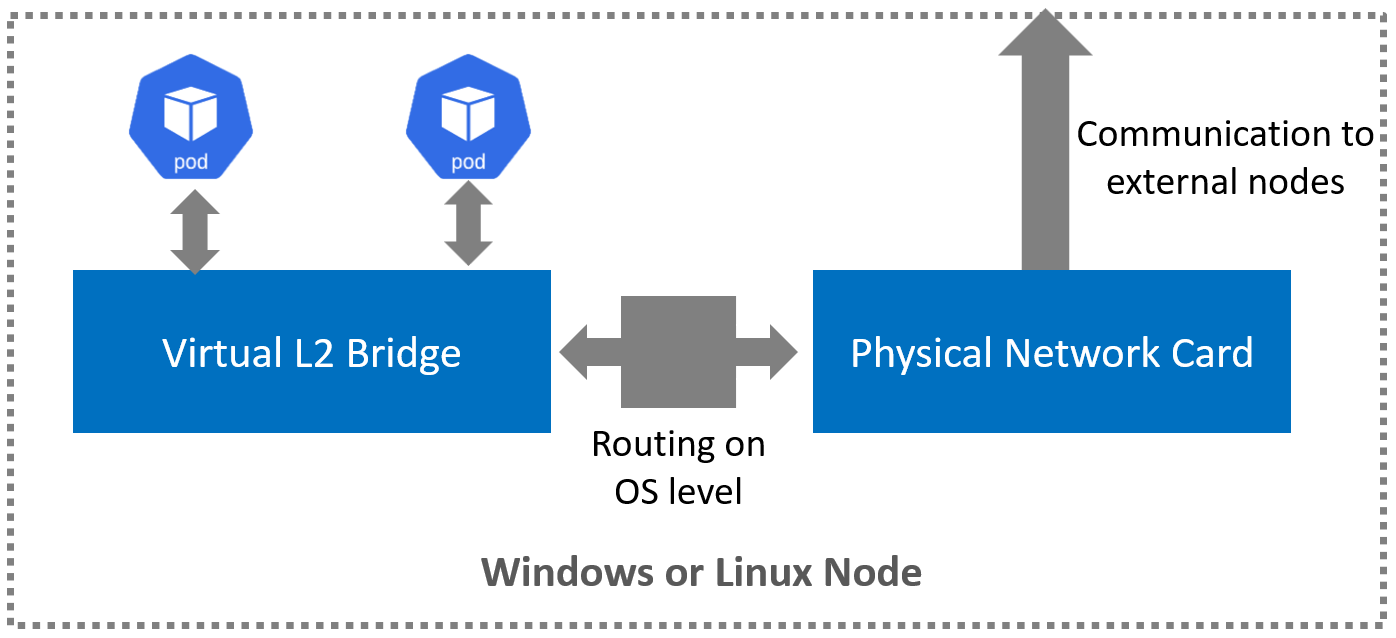
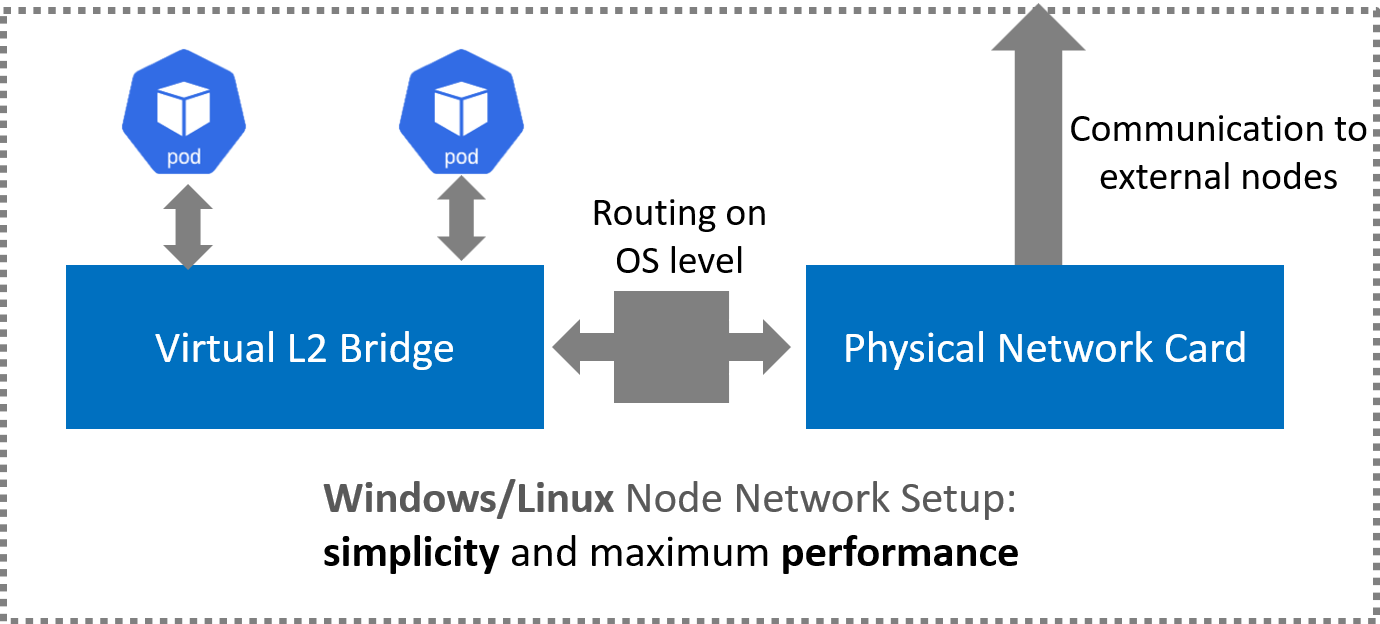
doc: improve documentation

diff --git a/docs/op-manual/networking-architecture.md b/docs/op-manual/networking-architecture.md
@@ -7,11 +7,11 @@ SPDX-License-Identifier: MIT
 
 ## Core Principles and Architecture: simplicity and maximum performance
 
-In alignment with K2s' foundational design principles of operational <b>simplicity</b> and <b>maximum performance</b>, our networking architecture is built upon Flannel CNI configured in host-gateway mode. This provides a transparent, high-throughput, and low-latency data plane that is ideal for demanding workloads and facilitates straightforward network analysis. For production-grade security, K2s integrates the [security addon](https://github.com/Siemens-Healthineers/K2s/blob/main/addons/security/README.md) which uses [Linkerd](https://linkerd.io/) to establish a zero-trust environment for all TCP-based traffic through transparent mTLS and fine-grained policy enforcement.
+In alignment with *K2s*' foundational design principles of operational <b>simplicity</b> and <b>maximum performance</b>, our networking architecture is built upon Flannel CNI configured in host-gateway mode. This provides a transparent, high-throughput, and low-latency data plane that is ideal for demanding workloads and facilitates straightforward network analysis. For production-grade security, K2s integrates the [security addon](https://github.com/Siemens-Healthineers/K2s/blob/main/addons/security/README.md) which uses [Linkerd](https://linkerd.io/) to establish a zero-trust environment for all TCP-based traffic through transparent mTLS and fine-grained policy enforcement.
 
 ## The Broader Strategic Value of Simplicity and Performance
 
-The commitment to a simple and performant networking foundation provides strategic advantages that extend far beyond enabling zero-trust features. This architecture directly translates into tangible value for both operators and developers running workloads on K2s.
+The commitment to a simple and performant networking foundation provides strategic advantages that extend far beyond enabling zero-trust features. This architecture directly translates into tangible value for both operators and developers running workloads on *K2s*.
 
 <b>Accelerated Diagnostics and Troubleshooting</b>: The transparent host-gateway data plane avoids complex encapsulation (like VXLAN or IP-in-IP). Network traffic remains directly observable on the host, allowing operators to use standard, universal tools like tcpdump and Wireshark for rapid, intuitive debugging. This dramatically reduces the mean time to resolution (MTTR) for network-related issues compared to debugging opaque overlay networks.
 
@@ -23,28 +23,29 @@ The commitment to a simple and performant networking foundation provides strateg
 
 <div align="center">
 
-![Overview](docs/op-manual/assets/networksimplicity.png)
+![Overview](assets/networksimplicity.png)
 </div>
 
 ## Alternative Solutions Considered: Network Policy Controllers (same applies for more complex CNIs like Calico)
 
 During our evaluation, we analyzed solutions designed to enable native Kubernetes NetworkPolicy support on platforms where the CNI does not enforce it. A notable example is the windows-network-policy-controller from the Kubernetes SIGs community, which translates NetworkPolicy objects into rules for the Windows Filtering Platform.
 
-Potential Advantage: The primary benefit of such a controller is the ability to use the standard Kubernetes NetworkPolicy API. This provides a familiar, powerful abstraction for defining granular, label-based traffic rules between pods, which is highly desirable from a user-experience perspective.
+<b>Potential Advantage</b>: The primary benefit of such a controller is the ability to use the standard Kubernetes NetworkPolicy API. This provides a familiar, powerful abstraction for defining granular, label-based traffic rules between pods, which is highly desirable from a user-experience perspective.
 
-Reasons for Rejection: Despite this advantage, we concluded that this approach was not aligned with the core K2s tenets for the following reasons:
+<b>Reasons for Rejection</b>: Despite this advantage, we concluded that this approach was not aligned with the core K2s tenets for the following reasons:
 
 <b>Increased Complexity</b>: It introduces another active controller into the cluster's critical path. This component must be installed, managed, and monitored, adding operational overhead. Its logic for translating policies into host rules creates a layer of abstraction that can be difficult to debug when unexpected network behavior occurs.
 
 <b>Performance and Scalability Concerns</b>: A network policy controller must continuously watch the Kubernetes API for changes to pods (e.g., label changes, scaling events) and policies. In dynamic clusters, this can trigger frequent and numerous updates to the host's firewall ruleset, potentially leading to performance degradation, rule conflicts, or transient connectivity issues. This dynamic management layer adds computational overhead compared to the static, highly-performant rules applied by our chosen DaemonSet approach.
 
-<b>Deviation from Simplicity</b>: The goal of K2s is to provide a transparent and easily understandable system. A dynamic controller that generates a complex and ever-changing set of host firewall rules moves away from this principle, making it harder for operators to reason about the state of the network at any given moment.
+<b>Deviation from Simplicity</b>: The goal of K2s is to provide a transparent and easily understandable system. A dynamic controller that generates a complex and ever-changing set of host firewall rules moves away from this principle, making it harder for operators to reason about the state of the network at any given moment. In addition the solutions add an overhead in the package processing plus an additional CPU overhead for kernel/userspace transitions: latency increase of +100μs-2ms per packet, throughput reduction: 20%-80%
+and CPU overhead: +20-200%. Even package drops are possible under high load !
 
-<b>OS support</b> The analyzed solutions where not working under Windows, they provided only for Linux nodes a solution.
+<b>OS support</b> Many of the analyzed solutions where not working under Windows, they provided only for Linux nodes a viable solution.
 
 ## Governing Non-TCP Traffic
 
-A critical consideration in this chosen architecture is the governance of non-TCP protocols, primarily UDP. As Linkerd's service mesh capabilities are focused on L4/L7 TCP traffic, UDP communication operates outside its security perimeter. This necessitates a robust and performant solution to control UDP traffic flows without compromising our core design goals of simplicity and speed. While alternative CNIs like Calico offer integrated policy enforcement, they introduce significant operational complexity and potential performance overhead, which runs counter to the K2s philosophy.
+A critical consideration in this chosen architecture is the governance of non-TCP protocols, primarily UDP. As Linkerd's service mesh capabilities are focused on L4/L7 TCP traffic, UDP communication operates outside its security perimeter. This necessitates a robust and performant solution to control UDP traffic flows without compromising our core design goals of simplicity and speed. While alternative CNIs like Calico offer integrated policy enforcement, they introduce significant operational complexity and potential performance overhead, which runs counter to the *K2s* philosophy.
 
 ## The Selected Strategy: Host-Level Firewall Enforcement via a Kubernetes DaemonSet
 
@@ -54,7 +55,7 @@ To address this gap, we have adopted a strategy of leveraging the native, kernel
 
 This decision reinforces our commitment to performance and simplicity through the following key advantages:
 
-<b>Upholding Peak Performance</b>: By delegating UDP filtering to the highly-optimized packet processing engines within the host kernel, we ensure that security policies are enforced with negligible latency or throughput degradation. This preserves the performance integrity of the K2s data plane, which is paramount for data-intensive applications.
+<b>Upholding Peak Performance</b>: By delegating UDP filtering to the highly-optimized packet processing engines within the host kernel, we ensure that security policies are enforced with negligible latency or throughput degradation. This preserves the performance integrity of the *K2s* data plane, which is paramount for data-intensive applications.
 
 <b>Maintaining Architectural Simplicity</b>: This approach avoids introducing a complex secondary networking stack. We retain the lean, understandable Flannel CNI and sidestep the steep learning curve and operational burden associated with more intricate CNI solutions. The control plane remains minimalist and easy to manage.
 
@@ -192,4 +193,4 @@ spec:
 
 Conclusion
 
-By implementing UDP security policies via a host-firewall DaemonSet, K2s strikes an optimal balance. We secure the cluster by closing the UDP gap while staying true to our core tenets: delivering a Kubernetes distribution that is exceptionally fast, operationally simple, and ready for the most demanding production workloads.
+By implementing UDP security policies via a host-firewall DaemonSet, *K2s* strikes an optimal balance. We secure the cluster by closing the UDP gap while staying true to our core tenets: delivering a Kubernetes distribution that is exceptionally fast, operationally simple, and ready for the most demanding production workloads.
